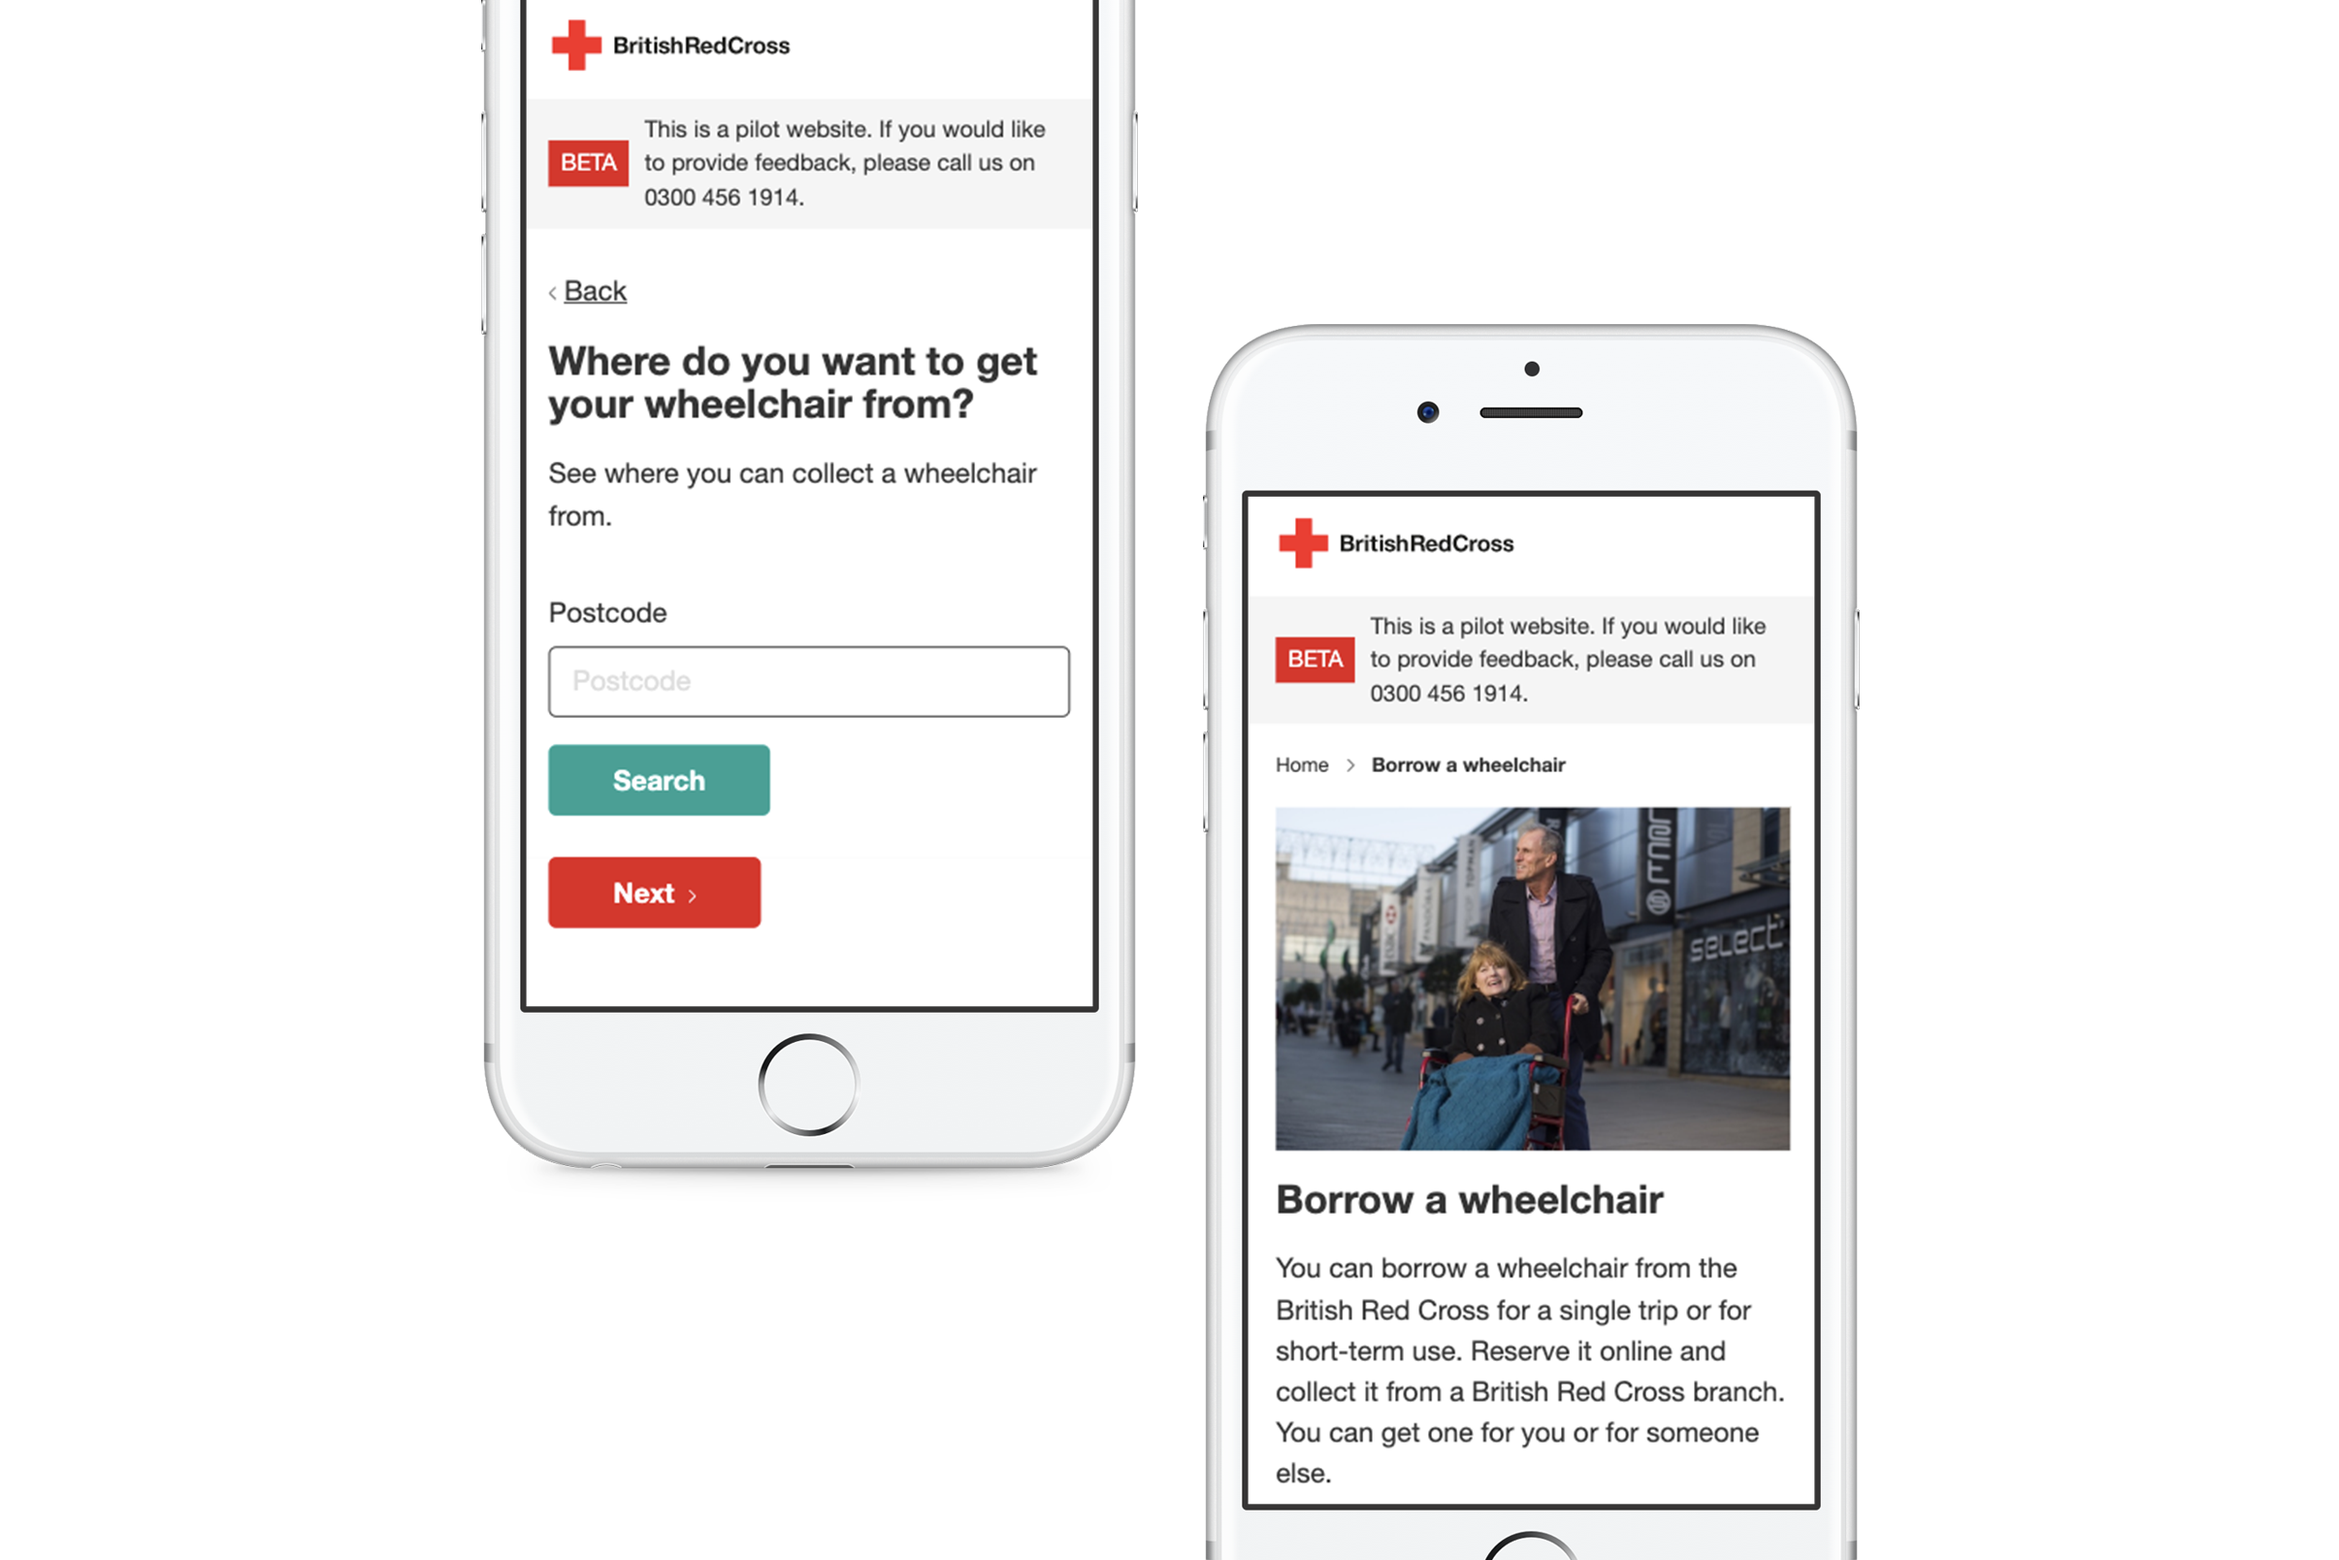
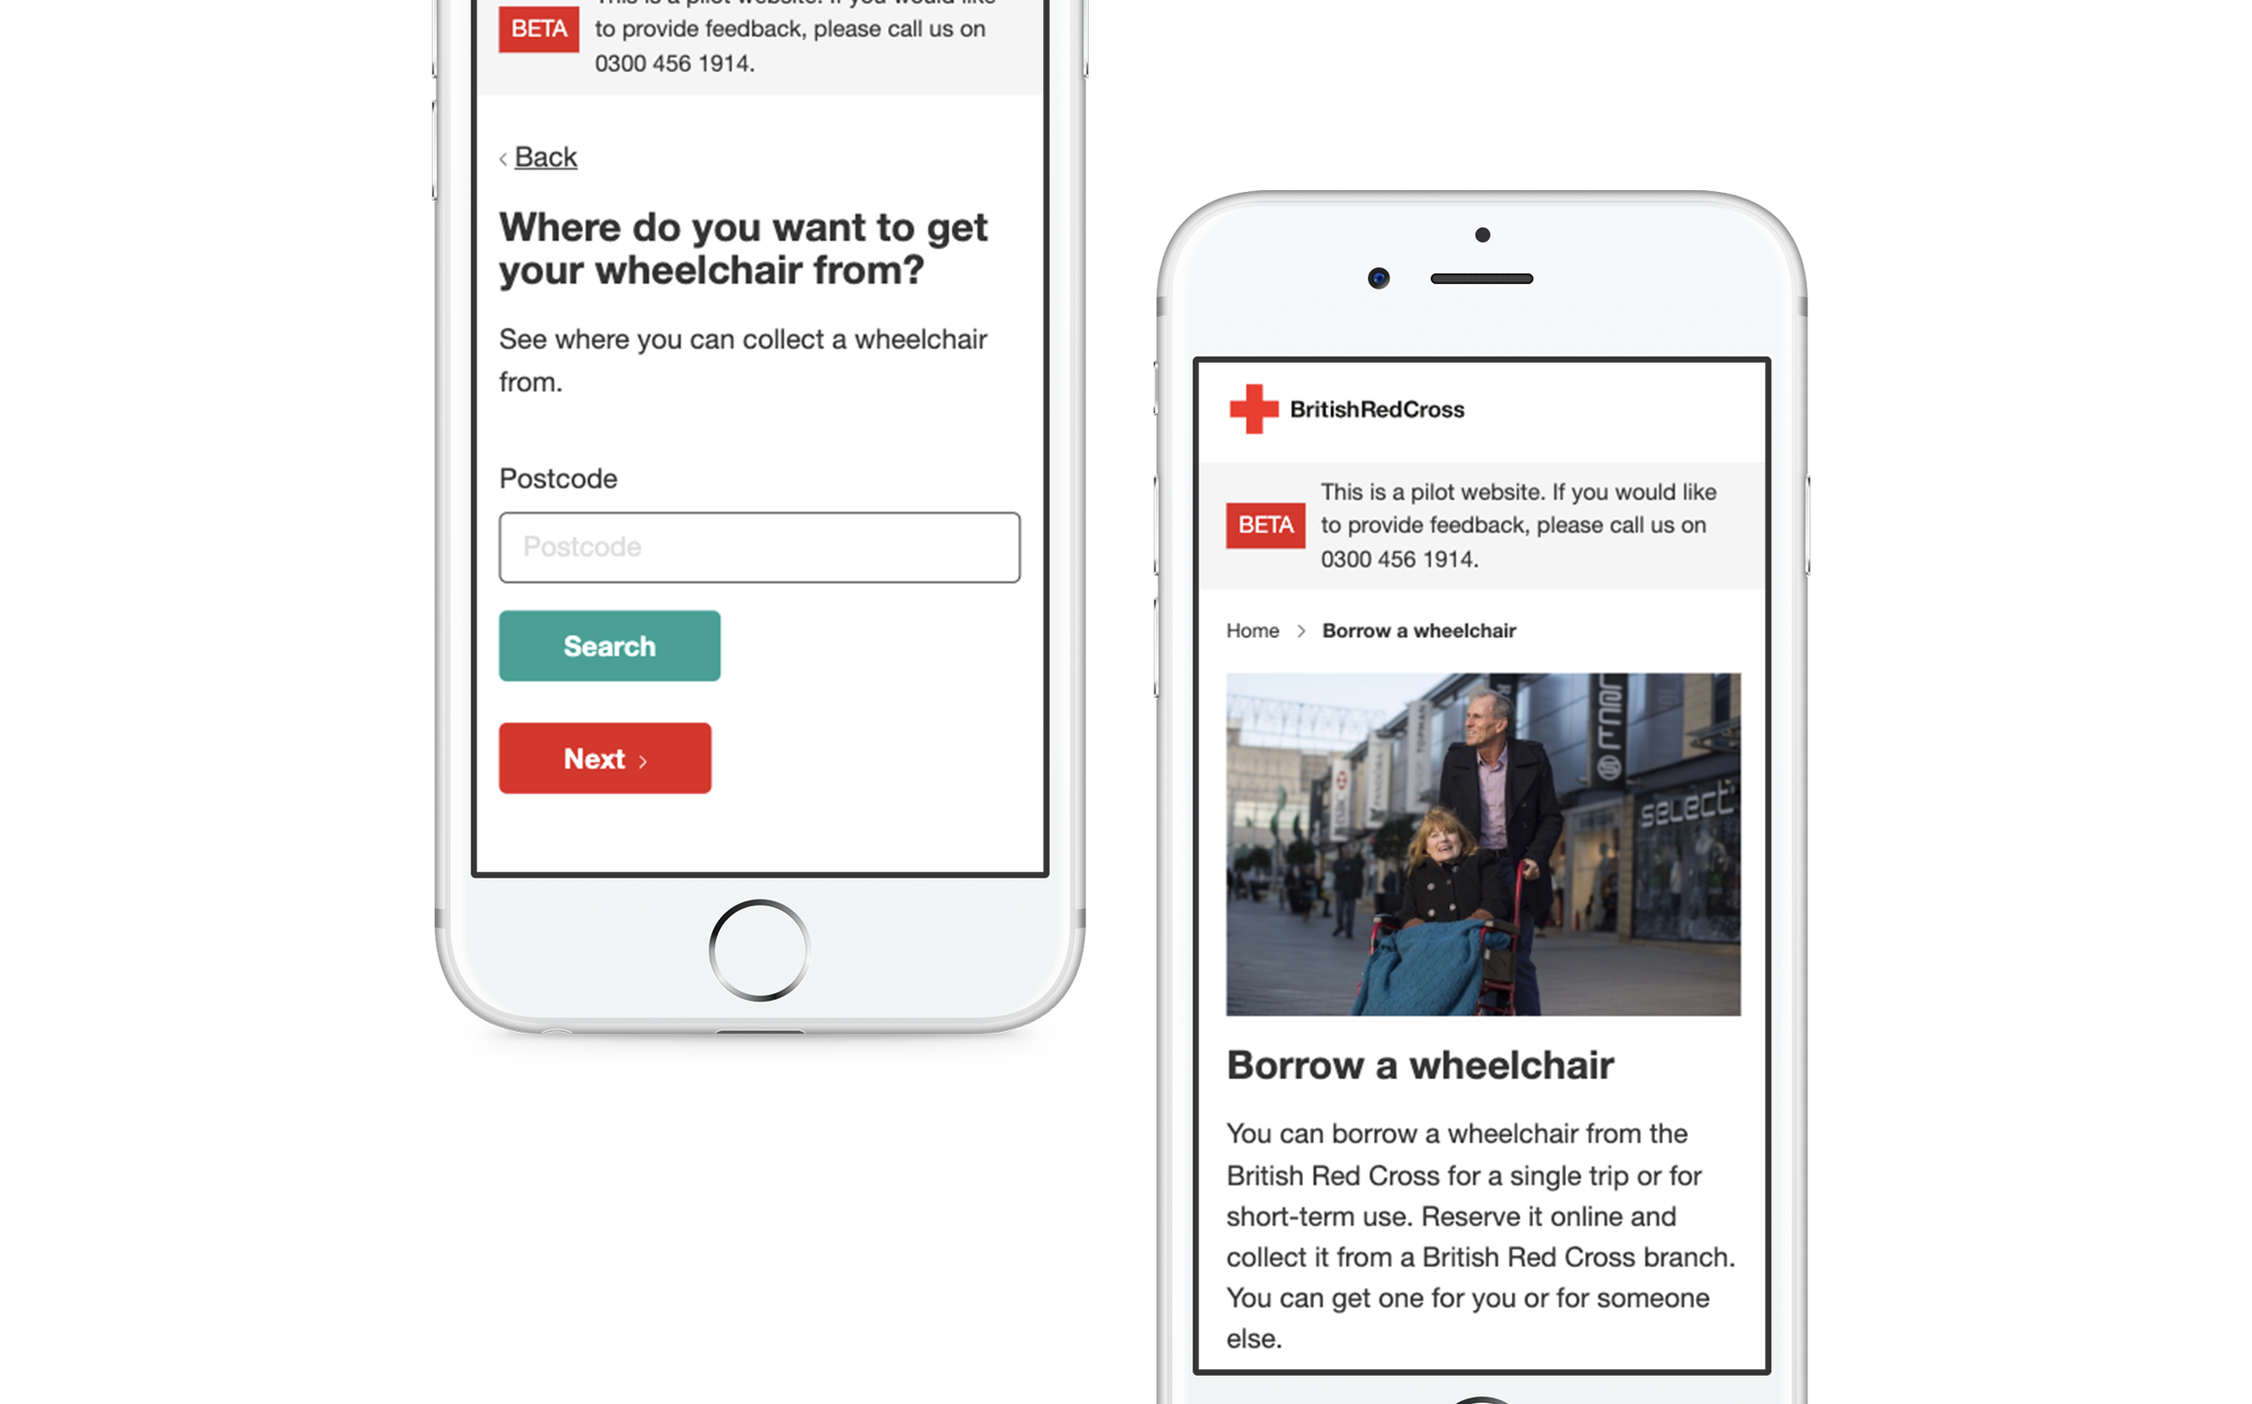
updated case study images

Changed region(s): [[0.1861, 0.0, 0.8065, 1.0], [0.5274, 0.1243, 0.7755, 0.1554]]

diff --git a/src/components/CaseStudyInfo.js b/src/components/CaseStudyInfo.js
@@ -1,8 +1,8 @@
-import styled from 'styled-components';
-import React, {Component} from 'react';
-import theme from '../theme';
-import Button from './Button';
-import Fade from 'react-reveal/Fade';
+import styled from "styled-components"
+import React, { Component } from "react"
+import theme from "../theme"
+import Button from "./Button"
+import Fade from "react-reveal/Fade"
 
 const InfoWrapper = styled.div`
   max-width: 50%;
@@ -13,17 +13,17 @@ const InfoWrapper = styled.div`
   @media only screen and (max-width: ${theme.breakpoints[1]}) {
     max-width: 100%;
   }
-`;
+`
 
 const CompanyName = styled.h2`
   ${theme.textStyles.heading2}
   display:block;
-`;
+`
 
 const CaseStudyName = styled.h3`
   ${theme.textStyles.heading1}
   display:block;
-`;
+`
 
 const CaseStudyDescription = styled.p`
   ${theme.textStyles.body}
@@ -31,17 +31,17 @@ const CaseStudyDescription = styled.p`
   line-height: 28px;
   margin-top: ${theme.space[5]}px;
   margin-bottom: ${theme.space[6]}px;
-`;
+`
 
 class CaseStudyInfo extends Component {
   render() {
-    const companyName = this.props.companyName;
-    const caseStudyName = this.props.caseStudyName;
-    const description = this.props.description;
-    const link = this.props.link;
+    const companyName = this.props.companyName
+    const caseStudyName = this.props.caseStudyName
+    const description = this.props.description
+    const link = this.props.link
     return (
       <InfoWrapper>
-        <Fade bottom>
+        <Fade left>
           <div>
             <CompanyName> {companyName} </CompanyName>
             <CaseStudyName> {caseStudyName} </CaseStudyName>
@@ -50,8 +50,8 @@ class CaseStudyInfo extends Component {
           </div>
         </Fade>
       </InfoWrapper>
-    );
+    )
   }
 }
 
-export default CaseStudyInfo;
+export default CaseStudyInfo

diff --git a/src/components/DSCaseStudy.js b/src/components/DSCaseStudy.js
@@ -2,7 +2,7 @@ import styled from "styled-components"
 import React, { Component } from "react"
 import CaseStudyInfo from "../components/CaseStudyInfo"
 import theme from "../theme"
-import dsmockup from "../images/citizen_advice_mockup.png"
+import dsmockup from "../images/CA_logo.svg"
 
 const Wrapper = styled.div`
   display: flex;
@@ -13,10 +13,11 @@ const Wrapper = styled.div`
 `
 
 const ImageHolder = styled.div`
-  background-color: ${theme.colors.lightBlue};
+  background-color: ${theme.colors.lightestBlue};
   padding-left: ${theme.space[4]}px;
   padding-right: ${theme.space[4]}px;
-  padding-top: ${theme.space[5]}px;
+  padding-top: 70px;
+  padding-bottom: 70px;
 
   @media only screen and (max-width: ${theme.breakpoints[1]}) {
     transform: translateX(0px);
@@ -29,6 +30,8 @@ const ImageHolder = styled.div`
   }
   img {
     max-width: 100%;
+    display: block;
+    margin: auto;
     @media only screen and (max-width: ${theme.breakpoints[1]}) {
       // width: 500px;
     }
@@ -36,10 +39,10 @@ const ImageHolder = styled.div`
 `
 
 const CaseStudyImage = styled.div`
-  max-width: 50%;
+  width: 50%;
   @media only screen and (max-width: ${theme.breakpoints[1]}) {
     margin-top: ${theme.space[6]}px;
-    max-width: 100%;
+    width: 100%;
   }
   @media only screen and (max-width: ${theme.breakpoints[2]}) {
   }

diff --git a/src/components/BRCCaseStudy.js b/src/components/BRCCaseStudy.js
@@ -26,7 +26,9 @@ const ImageHolder = styled.div`
   }
   img {
     max-width: 100%;
-    @media only screen and (max-width: ${theme.breakpoints[1]}) {
+    vertical-align: middle;
+    vertical-align: -webkit-baseline-middle @media only screen and
+      (max-width: ${theme.breakpoints[1]}) {
       // width: 500px;
     }
   }

diff --git a/src/components/Hero.js b/src/components/Hero.js
@@ -5,6 +5,9 @@ import theme from "../theme"
 const Wrapper = styled.div`
   margin-top: ${theme.space[7]}px;
   margin-bottom: ${theme.space[6]}px;
+  @media only screen and (max-width: ${theme.breakpoints[1]}) {
+    margin-top: ${theme.space[6]}px;
+  }
 `
 
 const TagLine = styled.h2`

diff --git a/src/markdown-pages/CA-design-system.md b/src/markdown-pages/CA-design-system.md
@@ -25,7 +25,7 @@ We catalogued and compared all UI elements on the public website. Most of the UI
 
 We reviewed the front-end code on the public website and found a variety of unique font sizes, colours, media queries and spacing used. Multiple CSS classes were doing the same thing which led to an unnecessarily bloated codebase.
 
-![UI audit](CAB_UI_design_system_audit.png)
+![UI audit](CAB_UI_design_system_audit_2.png)
 
 ## Establishing our foundations
 
@@ -39,7 +39,7 @@ With the redesign of an online form coming up, we saw this as an opportunity to 
 
 To ensure our components were accessible, we put them in to a HTML prototype and tested it with screen reader and accessibility auditing tools.
 
-![Prototype for testing](faulty-goods-tool.png)
+![Prototype for testing](faulty_goods.png)
 
 ## Documenting the system
 
@@ -71,11 +71,11 @@ Designers were tasked with creating some high-fidelity mock ups based on some lo
 
 We originally had all the parts of the design system sorted into foundations, components and patterns. Patterns were groupings of components. Designers were often confused between what a component and what a pattern was. We decided to merge the two as our users perceived them to be the same thing.
 
-### Most designers ignored the documentation site and and only used the Sketch file
+### Most designers ignored the documentation site and only used the Sketch file
 
 They used the documentation site to download the sketch file but once they opened the file they didn’t return to the site. Some designers said they needed more guidance. This prompted a discussion to include documentation and examples in the sketch file.
 
-![Design system documentation site](design-system-documentation-site.png)
+![Design system documentation site](citizen_advice_mockup.png)
 
 ## Adding utility classes to the CSS framework
 
